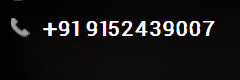
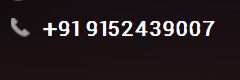
pushing code in single script

Changed region(s): [[0.0, 0.85, 0.1167, 1.0]]

diff --git a/screenshot.py b/screenshot.py
@@ -1,11 +1,13 @@
 from selenium import webdriver
 from selenium.webdriver.firefox.options import Options
+from PIL import Image
+import os
 
 options = Options()
 options.add_argument("--headless")
 # options.add_argument('--ignore-certificate-errors')
 # options.add_argument("--test-type")
-#options.binary_location = "/usr/bin/chromium"
+# options.binary_location = "/usr/bin/chromium"
 driver = webdriver.Firefox()
 
 url = 'https://www.justdial.com/Delhi/Ardor-Restaurant-Lounge-Terrace-Cafe-Connaught-Place/011PXX11-XX11-121106171304-R3S5_BZDET?srcterm=Ardor%2520Restaurant%2520Lounge%2520Terrace%2520Cafe'
@@ -13,3 +15,15 @@ driver.get(url)
 driver.save_screenshot("screenshot.png")
 print (driver.title)
 driver.close()
+
+
+def crop(png_image_name):
+    img = Image.open(png_image_name)
+    area = (160, 220, 400, 300)
+    cropped_img = img.crop(area)
+    cropped_img.save(png_image_name)
+    cropped_img.show()
+
+for f in os.listdir('.'):
+    if f.endswith('.png'):
+        crop(f)

diff --git a/README.md b/README.md
@@ -1,8 +1,12 @@
 # Web_scrap1
-Web scrapping test
+Web scrapping
 
 Python Packages
 
-    Beautifulsoup
-    Image
-    numpy
+Use pip as a package manager for installing these packages
+    from urllib.request import urlopen, Request
+    from bs4 import BeautifulSoup
+
+    from selenium import webdriver
+    from selenium.webdriver.firefox.options import Options
+    from PIL import Image
